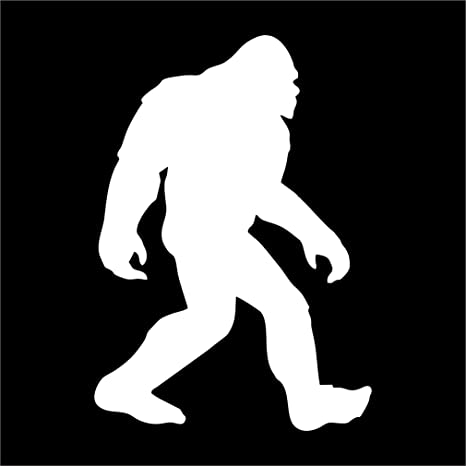
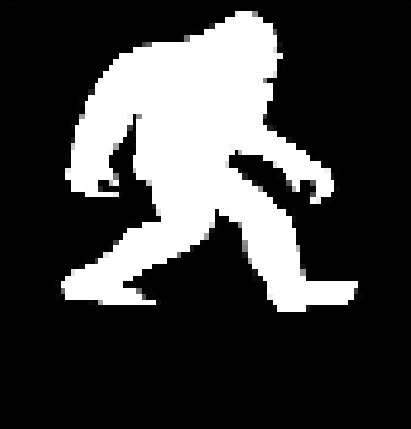
updating tile image for cryptid page

diff --git a/cryptid.html b/cryptid.html
@@ -18,10 +18,18 @@
       <li><a href="cryptid.html">Cryptid Center</a></li>
     </ul>
   </nav>
-  <audio controls autoplay id="audio-control">
-    <source src="media/xfiles_fixed.mp3" type="audio/mpeg">
-    <source src="media/twilight_zone_fixed.mp3" type="audio/mpeg">
-  </audio>
+  <div id="audio-control">
+    <div>
+      <audio controls autoplay>
+        <source src="media/xfiles_fixed.mp3" type="audio/mpeg">
+      </audio>
+    </div>
+    <div>
+      <audio controls autoplay>
+        <source src="media/twilight_zone_fixed.mp3" type="audio/mpeg">
+      </audio>
+    </div>
+  </div> 
   <h1>The Truth is Out There!</h1>
   <div id="banner">
     <img src="media/stars.gif" alt="stars banner">

diff --git a/css/cryptid.css b/css/cryptid.css
@@ -1,7 +1,7 @@
 body {
   background-image: url('../media/bigfoot_tile.jpg');
   background-color: black;
-  color: tomato;
+  color: red;
 }
 
 h1 {
